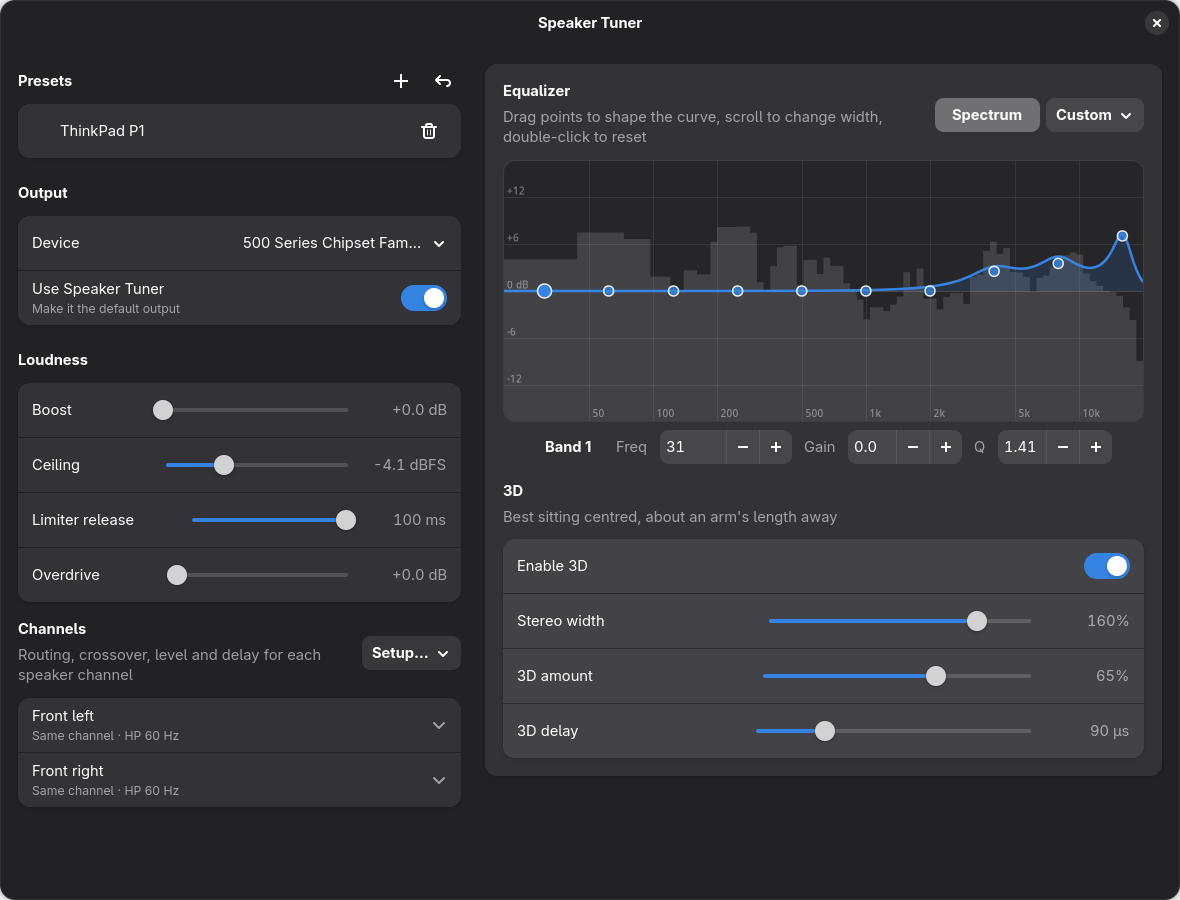
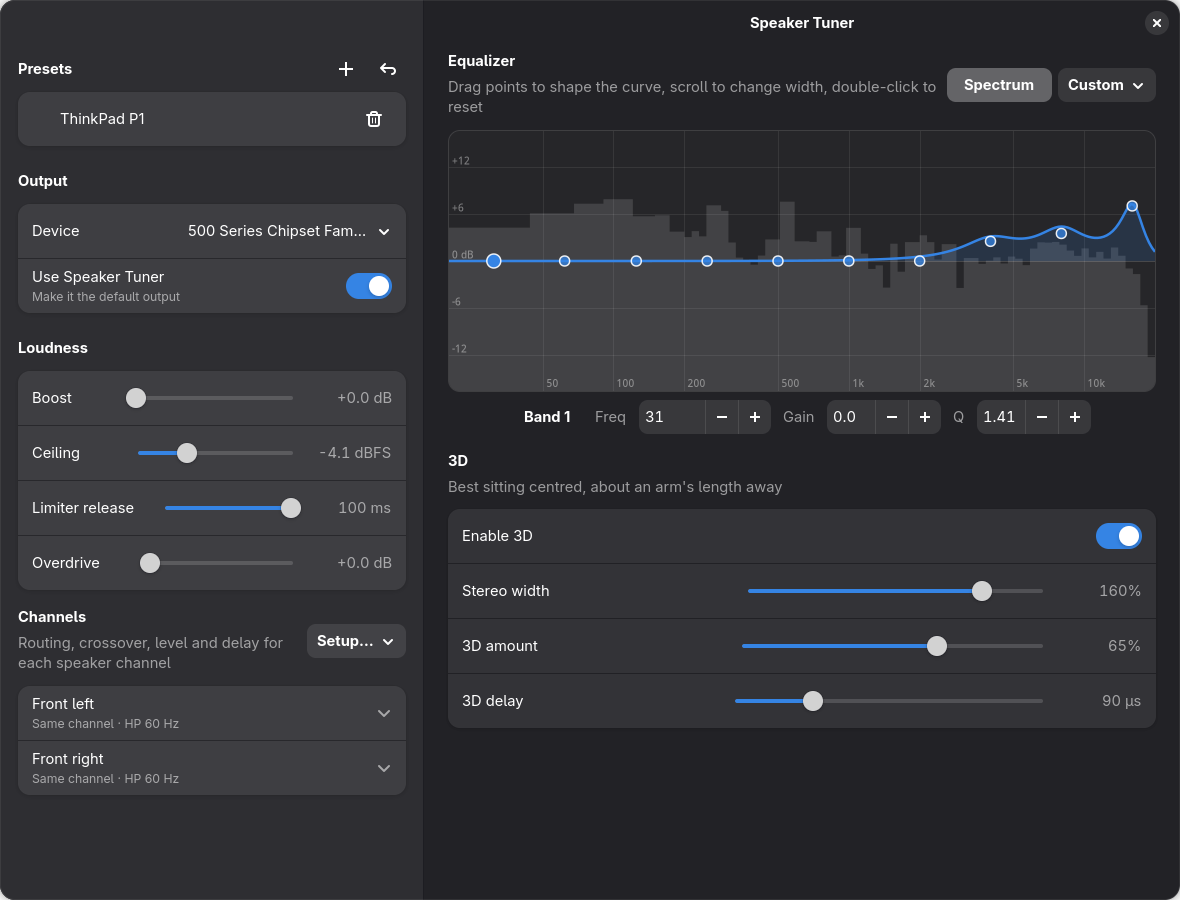
Full-height settings sidebar (OverlaySplitView), EQ and 3D in the main area

diff --git a/speaker_tuner.py b/speaker_tuner.py
@@ -23,7 +23,7 @@ import gi
 
 gi.require_version("Gtk", "4.0")
 gi.require_version("Adw", "1")
-from gi.repository import Adw, Gdk, GLib, Gtk  # noqa: E402
+from gi.repository import Adw, Gdk, GLib, GObject, Gtk  # noqa: E402
 
 APP_ID = "io.github.pjamessteven.SpeakerTuner"
 VERSION = "0.3.0"
@@ -827,32 +827,37 @@ class Window(Adw.ApplicationWindow):
             if n == self.s["target_sink"]:
                 self.s["target_positions"] = pos
 
-        view = Adw.ToolbarView()
-        view.add_top_bar(Adw.HeaderBar())
+        # Layout: a full-height sidebar (presets, output, loudness, channels) and the main area (EQ, 3D).
+        self.split = Adw.OverlaySplitView(min_sidebar_width=360, max_sidebar_width=440, sidebar_width_fraction=0.36)
+
+        side_view = Adw.ToolbarView()
+        side_view.add_top_bar(Adw.HeaderBar(show_title=False))
+        left = Gtk.Box(orientation=Gtk.Orientation.VERTICAL, spacing=18,
+                       margin_top=6, margin_bottom=24, margin_start=18, margin_end=18)
+        side_view.set_content(Gtk.ScrolledWindow(hscrollbar_policy=Gtk.PolicyType.NEVER, child=left))
+        self.split.set_sidebar(side_view)
+
+        main_view = Adw.ToolbarView()
+        header = Adw.HeaderBar()
+        sidebar_btn = Gtk.ToggleButton(icon_name="sidebar-show-symbolic", tooltip_text="Show settings", visible=False)
+        self.split.bind_property("show-sidebar", sidebar_btn, "active",
+                                 GObject.BindingFlags.BIDIRECTIONAL | GObject.BindingFlags.SYNC_CREATE)
+        header.pack_start(sidebar_btn)
+        main_view.add_top_bar(header)
         self.banner = Adw.Banner()
         self.banner.connect("button-clicked", self.on_reload)
-        view.add_top_bar(self.banner)
+        main_view.add_top_bar(self.banner)
+        right = Gtk.Box(orientation=Gtk.Orientation.VERTICAL, spacing=18,
+                        margin_top=6, margin_bottom=24, margin_start=24, margin_end=24)
+        main_view.set_content(Gtk.ScrolledWindow(hscrollbar_policy=Gtk.PolicyType.NEVER, child=right))
+        self.split.set_content(main_view)
 
-        self.toasts = Adw.ToastOverlay()
-        scroller = Gtk.ScrolledWindow(hscrollbar_policy=Gtk.PolicyType.NEVER)
-        self.columns = Gtk.Box(spacing=24, margin_top=18, margin_bottom=24, margin_start=18, margin_end=18,
-                               homogeneous=False)
-        left = Gtk.Box(orientation=Gtk.Orientation.VERTICAL, spacing=18, width_request=380)
-        # Right column sits on a raised card; the content box inside it provides the padding.
-        right_card = Gtk.Box(hexpand=True, valign=Gtk.Align.START, css_classes=["card"])
-        right = Gtk.Box(orientation=Gtk.Orientation.VERTICAL, spacing=18, hexpand=True,
-                        margin_top=18, margin_bottom=18, margin_start=18, margin_end=18)
-        right_card.append(right)
-        self.columns.append(left)
-        self.columns.append(right_card)
-        scroller.set_child(self.columns)
-        self.toasts.set_child(scroller)
-        view.set_content(self.toasts)
-        self.set_content(view)
+        self.toasts = Adw.ToastOverlay(child=self.split)
+        self.set_content(self.toasts)
 
-        bp = Adw.Breakpoint.new(Adw.BreakpointCondition.parse("max-width: 900sp"))
-        bp.add_setter(self.columns, "orientation", Gtk.Orientation.VERTICAL)
-        bp.add_setter(left, "width-request", -1)
+        bp = Adw.Breakpoint.new(Adw.BreakpointCondition.parse("max-width: 820sp"))
+        bp.add_setter(self.split, "collapsed", True)
+        bp.add_setter(sidebar_btn, "visible", True)
         self.add_breakpoint(bp)
 
         # ---- left column: presets, output, loudness, channels
